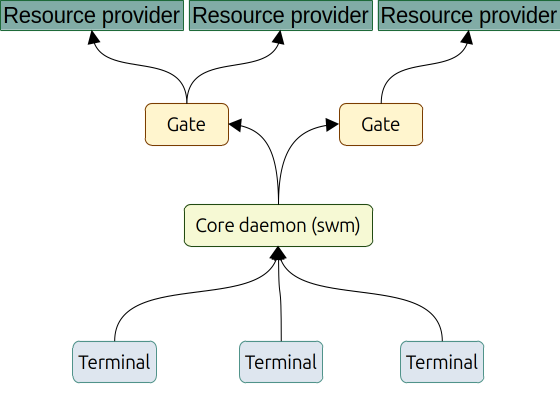
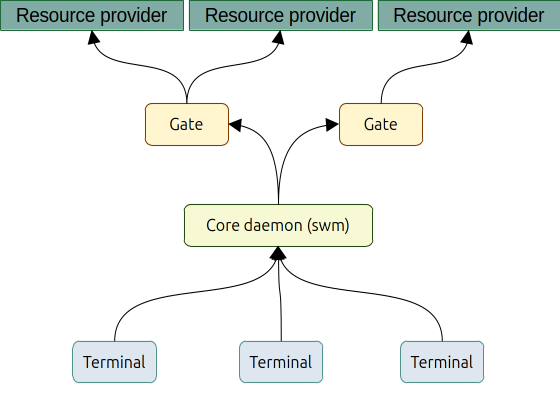
Update main page

diff --git a/index.md b/index.md
@@ -1,33 +1,35 @@
 ## Open Workload Project
 
-Open Workload is an effort initiated by the desire to craft new possibilities for modern [High Performance Computing (HPC)](https://en.wikipedia.org/wiki/High-performance_computing). Our mission is to connect HPC software to the global compute ecosystem. Our project Sky Port is a software stack that provides user software a transparent access to multiple cloud computing resources via a single API. We call thus approach for the HPC resources management as Private HPC.
+Open Workload is a dedicated initiative focused on exploring innovative approaches to modern [High Performance Computing (HPC)](https://en.wikipedia.org/wiki/High-performance_computing) workload management. Comprised of software developers and HPC specialists, our objective is to refine and establish a universal interface for seamless connection between user applications and cloud resources. Our project, Sky Port, serves as an experimental workload manager that enables users and their software to access and interact with the global compute ecosystem.
 
-We are software developers and experts in HPC who try to work through and sharpen a universal bus that connects user software and cloud resources. Sky Port is the method, while our final goal is to present a new standard that describes a transportation layer that resides between a workload producer (user software) and multiple resource providers (cloud or HPC clusters).
+We trust in:
+* zero trust security approach,
+* a diverse and distributed HPC future,
+* rising demand for personal HPC computation.
 
-We believe in:
-* zero trust approach;
-* highly heterogeneous and distributed future of HPC;
-* eventual growth of demand for Private HPC.
+Sky Port facilitates automated configuration of HPC clusters for each cloud-based job, providing users with comprehensive control over the entire lifecycle of their tasks. A workload management software allows the user to transfer demanding computational tasks to remote resources provided by a cloud service. The user selects which resources are used for her jobs and is responsible for covering the costs of those resources.
 
-## Private HPC
+The difference between using Sky Port and the usage of a manually configured HPC clusters in a public cloud is amount of workload and cluster management automation. The former allows a user or user-controlled software to submit a new workload without bothering about mechanisms behind the data transferring, remote resources lifecycle and computational process. While the latter demands from the user additional knowledge and steps to create and configure an HPC clusters in the cloud, configure ports forwarding, transmit the user’s data, run the workload, and download the workload results back to the user’s laptop. Those steps usually can be automated, but they are typically either not integrated into a single seamless user workflow, implemented as a proprietary software or vendor locked.
 
-A private HPC refers to a practice of automatically aggregating compute power for a workload of a user who has full control over its lifecycle. The user runs a workload management software that offloads the computationally intensive workload to a remote on-premises compute cluster or to compute resources of a cloud provider. The user solely decides what compute resources her job should run on (or allows the workload manager to choose) and pays for those resources.
+Sky Port is an open-source vendor-independent workload manager designed for HPC workload. In particular the following funcionality is going to be implemented:
 
-The difference between the Private HPC and the usage of a manually configured HPC cluster in a public cloud is amount of workload and cluster management automation. The former allows a user or user-controlled software to submit a new workload to the private HPC management software without bothering about mechanisms behind the data transferring and the computational process. While the latter demands from the user additional knowledge and steps to create and configure an HPC cluster in the cloud, transmit the user’s data, run the workload, and download the workload results back to the user’s laptop. Those steps usually can be automated, but they are typically either not integrated into a single seamless user workflow or vendor locked. 
-
-Sky Port is an open-source vendor-independent workload manager designed to show the power of Private HPC. We want to develop a new standard that simplifies the creation of seamlessly integrated components for Private HPC managers.
+* Multi node jobs
+* GPU jobs
+* MPI
+* OpenMP
+* Checkpoints
 
 ## Supported platforms
 
-Sky Port targets support for the Linux operating system. A reasonable effort is made to support all major, modern Linux distributions on ARM64 and X86_64 architectures; however, validation is limited to the most recent releases of Ubuntu/X86_64 systems.
+Sky Port targets support for the Linux operating system. A reasonable effort is made to support all major, modern Linux distributions on ARM64 and X86_64 architectures. However, validation is limited to the most recent releases of Ubuntu/X86_64 systems.
 
 ## Current status
 
-The [source code](https://github.com/openworkload) can be considered as a reference and a proof of concept for future standard. The project started recently and requires some time for API stabilization. Thus one can consider the code for now as a highly experimental one.
+The [source code](https://github.com/openworkload) is currently in early (alpha) stage. The project requires some time for API stabilization.
 
 ## Source code
 
-Sky Port consists of the following repositories:
+Sky Port software stack consists of the following repositories:
 * [Core](https://github.com/openworkload/swm-core): the main component of Sky Port (workload manager). This daemon runs in the background and serves all communications among terminals and gates.
 * [Scheduler](https://github.com/openworkload/swm-sched): workload scheduler (a plugin for the core daemon). It creates timetables for job execution.
 * [Gate](https://github.com/openworkload/swm-cloud-gate): a plugin for Sky Port that is in charge of all communications between the Core and cloud providers.
